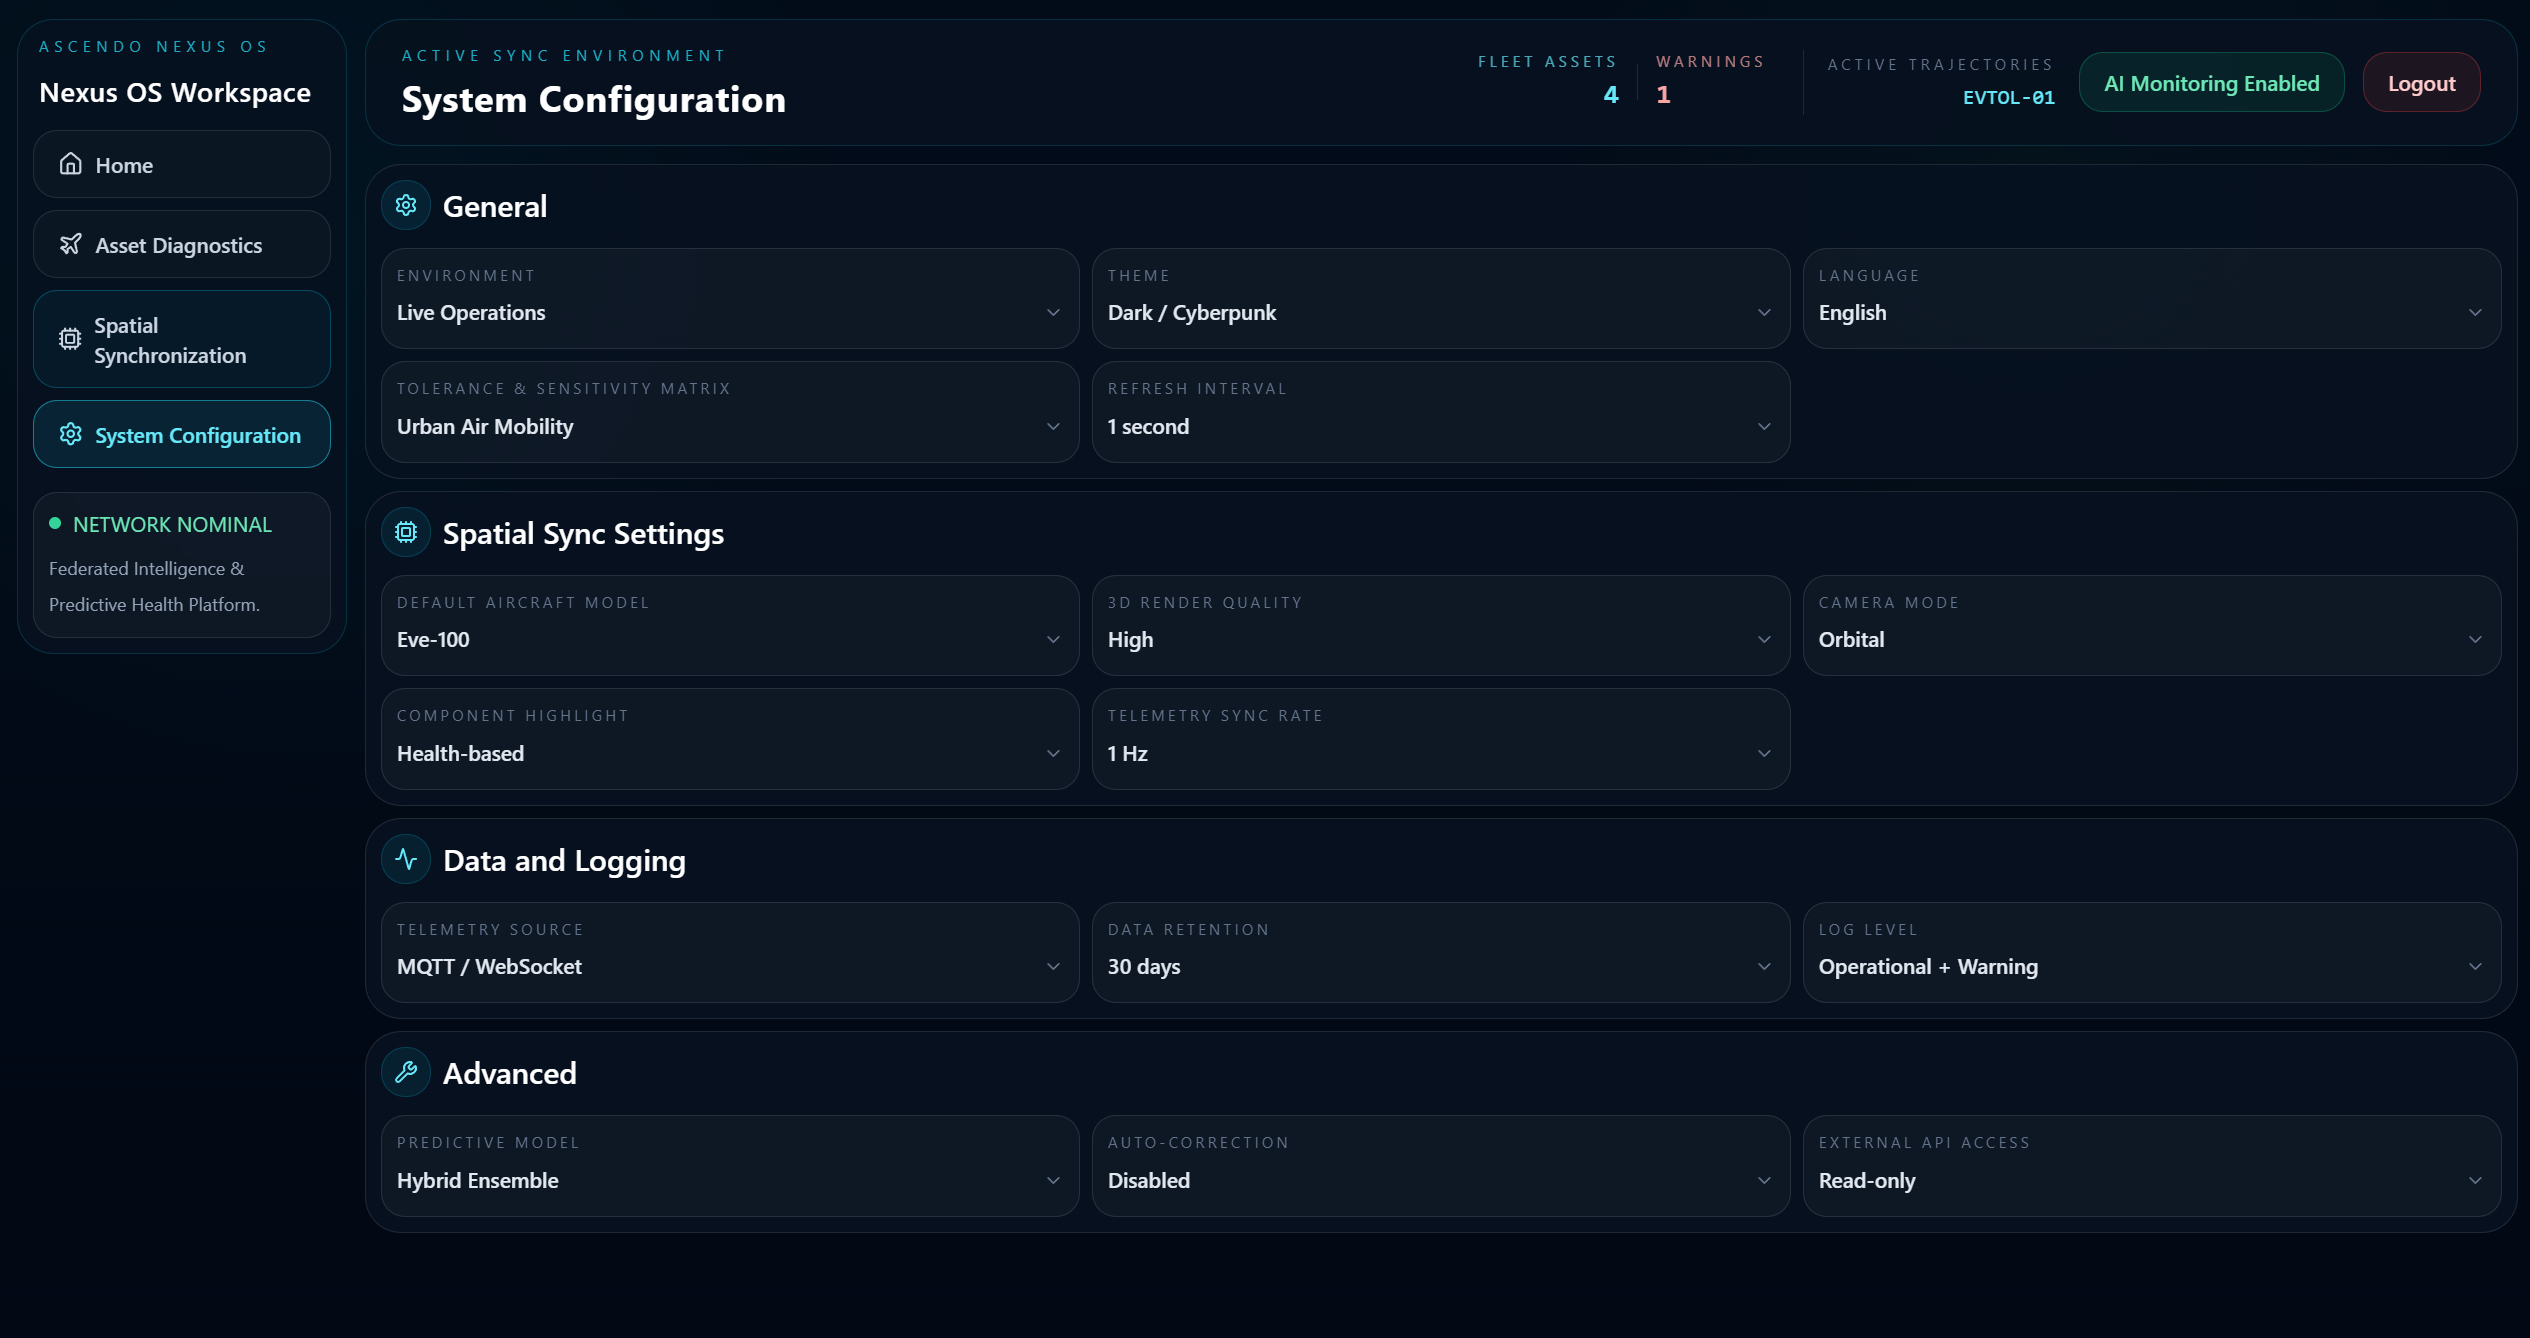
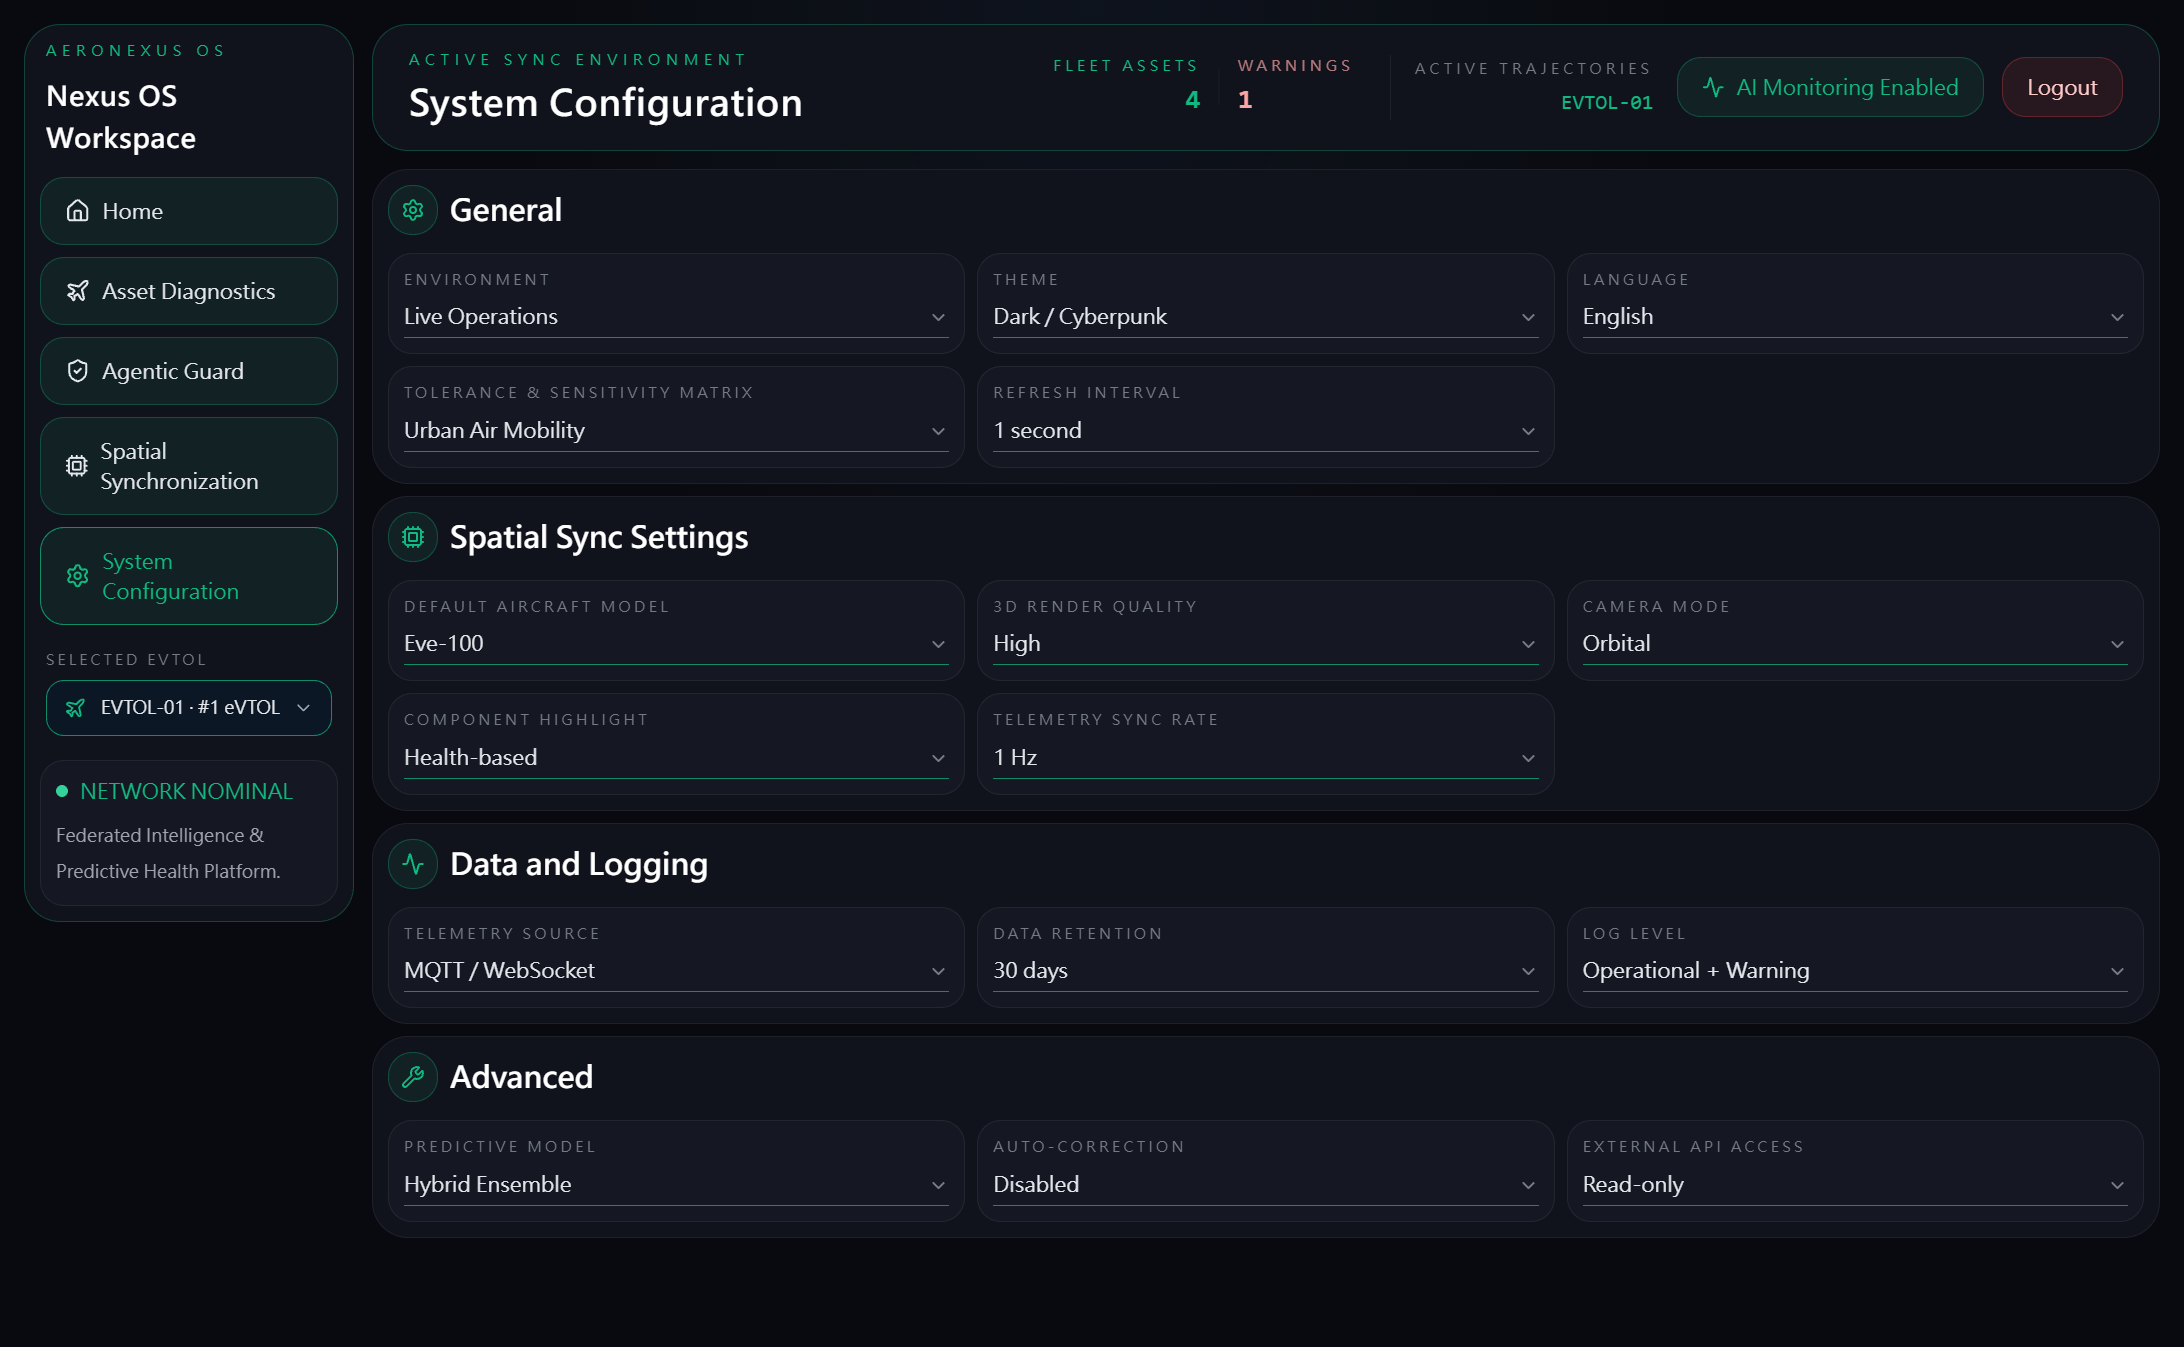
Refresh production-minded showcase content and screenshots

diff --git a/README.md b/README.md
@@ -1,51 +1,80 @@
+<div align="center">
+
 # ASCENDO NEXUS OS
 
-> An operations-facing digital-twin showcase for eVTOL fleet health, predictive diagnostics, spatial awareness, and safety intelligence.
+### An operator-focused eVTOL fleet operations prototype
 
-**Ascendo Nexus OS** is a proof-of-concept command interface for monitoring an urban air-mobility fleet. It brings asset telemetry, health indicators, eVTOL trajectories, 3D city context, road conditions, weather context, and AI-oriented safety findings into one operator workspace.
+Fleet health, asset diagnostics, geospatial context, and safety workflows in one interactive showcase.
 
-It is designed to make the operator journey tangible: from fleet health and asset diagnosis to spatial awareness, safety assessment, and operational configuration.
+[Source application](https://github.com/HenryyyW/AeroNexus-OS) · [Showcase repository](https://github.com/HenryyyW/AeroNexus-OS-showcase)
+
+</div>
+
+> **Project status:** production-minded prototype, not a production flight-operations system. The interface demonstrates an end-to-end operator workflow and engineering direction; data, models, authentication, and operational integrations are not certified or ready for aircraft use.
+
+## Overview
+
+Ascendo Nexus OS explores how an urban air-mobility team could review fleet condition, investigate an aircraft, understand its position in city context, and consult structured safety information from a single workspace. The showcase is built around complete operator-facing surfaces rather than isolated charts: fleet overview, digital-twin view, diagnostics, safety review, and configuration.
+
+The implementation includes reusable React views, sensor-range validation, rule- and trend-based diagnostic logic, animated route playback, interactive map layers, and a Cesium-based 3D scene. These are meaningful foundations for a product prototype, but they do not imply validated aircraft models, a deployed backend, or operational approval.
 
 ## Product Showcase
 
-### Fleet Health Overview
+### Fleet Health
 
-The home workspace gives operators a compact, fleet-level view of aircraft state. Each asset exposes health, state of charge, temperature, remaining useful life, mission context, and a status classification so attention can move immediately to exceptions.
+The fleet overview brings aircraft status, health indicators, state of charge, temperature, mission context, and maintenance signals into a status-first view. Fleet readings and flight context currently originate from seeded example data and a local simulation, not connected aircraft.
 
-![Fleet Health Overview](assets/screenshots/fleet-health-overview.png)
+![Fleet health overview](assets/screenshots/fleet-health-overview.png)
 
-### Asset Diagnostics and Predictive Maintenance
+### Asset Diagnostics
 
-The diagnostics workspace combines subsystem telemetry with a predictive-maintenance matrix. Rotor, battery, avionics, and sensor readings are presented alongside trend charts, anomaly scoring, battery delta, and a maintenance warning surface.
+The diagnostics workspace organizes battery, rotor, avionics, and sensor indicators alongside time-series trends, anomaly scores, and maintenance context. The prototype includes input-range validation and experimental rule/statistical analysis to make the diagnostic path inspectable. Its warnings and remaining-life figures are demonstrative outputs, not maintenance instructions or validated prognostics.
 
-![Asset Diagnostics](assets/screenshots/asset-diagnostics.png)
+![Asset diagnostics](assets/screenshots/asset-diagnostics.png)
 
-### AI-Assisted Safety Context
+### Safety Review
 
-The detailed asset view pairs flight context with a cockpit feed and a structured safety assessment. Visual and audio findings are synthesized into risk status, possible causes, recommended actions, digital-twin notes, and maintenance metadata.
+The safety surface presents a structured review format for risk level, visual/audio observations, possible causes, and recommended follow-up. Current assessments are example content loaded with the aircraft data; no production computer-vision, audio, or multimodal inference service is connected.
 
-![AI-Assisted Safety Context](assets/screenshots/ai-safety-context.png)
+![AI-assisted safety context](assets/screenshots/ai-safety-context.png)
 
-### Spatial Synchronization
+### Spatial Operations
 
-The spatial workspace joins a live 3D scene with a 2D operational map. Operators can inspect eVTOL position and trajectory in Hong Kong, compare fleet routing with road-speed conditions, and review local weather context alongside aircraft altitude and speed.
+The spatial workspace pairs an interactive 2D map with a 3D geospatial view, aircraft markers, and route playback. Road-speed context can use a public Hong Kong traffic feed in the local Vite development setup; route positions remain predefined demo trajectories. External map tiles and optional road-network KML files require network access and local setup.
 
-![Spatial Synchronization](assets/screenshots/spatial-synchronization.png)
+![Spatial synchronization](assets/screenshots/spatial-synchronization.png)
 
-### Operational Configuration
+### Configuration
 
-The configuration surface makes operating assumptions visible: environment, refresh interval, camera and rendering options, data retention, logging, and predictive-model settings.
+Configuration controls expose the kinds of choices an operations product needs to make explicit, including display, map, telemetry, retention, and model options. In this prototype, selections are stored in browser local storage and do not configure a live service, data pipeline, or model deployment.
 
-![System Configuration](assets/screenshots/system-configuration.png)
+![System configuration](assets/screenshots/system-configuration.png)
 
-## Capabilities
+## What Works in This Prototype
 
-| Domain | Demonstrated experience |
-| --- | --- |
-| Fleet command | A fleet-wide overview with live-looking health, SOC, temperature, RUL, mission, and warning states. |
-| Digital twin | Aircraft metadata and synchronized operational state presented as an inspectable asset record. |
-| Telemetry diagnostics | Propulsion, power, avionics, and sensor telemetry with condition labels and time-series visualizations. |
-| Predictive maintenance | RUL, anomaly score, battery delta, degradation context, and maintenance-warning presentation. |
-| Spatial operations | Animated eVTOL routes, interactive 2D map overlays, strategic road-speed context, and 3D geospatial visualization. |
-| Safety intelligence | A UI contract for visual/audio observations, fused safety assessment, recommended action, and flight evidence. |
-| Operator ergonomics | Persistent navigation, selected-aircraft context, status-first visual hierarchy, and responsive dashboard layouts. |
+| Area | Implemented in the showcase | Boundary today |
+| --- | --- | --- |
+| Operator workflow | Fleet overview, selected-aircraft context, diagnostics, safety review, and settings views. | Demonstration workflow; no dispatch or aircraft-control commands. |
+| Fleet state | Seeded eVTOL records with locally simulated telemetry updates and predefined routes. | No live aircraft, certified sensor feed, or authoritative fleet record. |
+| Diagnostics | Sensor-range checks, anomaly indicators, trend displays, and rule/statistical analysis. | Experimental logic; not validated for safety-critical decisions or maintenance planning. |
+| Battery analysis | Offline replay and exploratory remaining-life calculations are available in the source application. | The included LFP cell dataset is not an eVTOL battery pack; estimates are not certified SOH/RUL. |
+| Geospatial view | Leaflet map overlays, route playback, and Cesium 3D visualization. | External map/feed availability varies; aircraft trajectories are examples. |
+| Safety review | Structured assessment presentation with example observations and recommendations. | No connected production AI inference or verified cockpit evidence pipeline. |
+| Configuration and access | Browser-persisted preferences and a demonstration sign-in screen. | No server-side identity, authorization, audit trail, or operational configuration backend. |
+
+## Run the Application
+
+The showcase repository contains this README and its screenshots. To run the interactive application, use the source repository:
+
+```bash
+git clone https://github.com/HenryyyW/AeroNexus-OS.git
+cd AeroNexus-OS
+npm install
+npm run dev
+```
+
+The application uses Vite, React, and Node.js. Some spatial layers need network access; the strategic road overlay may also require the external KML files described in the source repository's README. Firebase configuration is optional for the frontend and must be supplied locally where needed. Never commit service-account credentials.
+
+## Production Readiness
+
+This project is intended to communicate a product direction and demonstrate an integrated, operator-oriented interface. Before any operational use, it would need, at minimum, authenticated and authorized services, verified aircraft data integrations, traceable data provenance, validated prognostic models, robust failure handling and observability, security and privacy review, and formal aviation safety assurance. None of those are claimed by this showcase.
